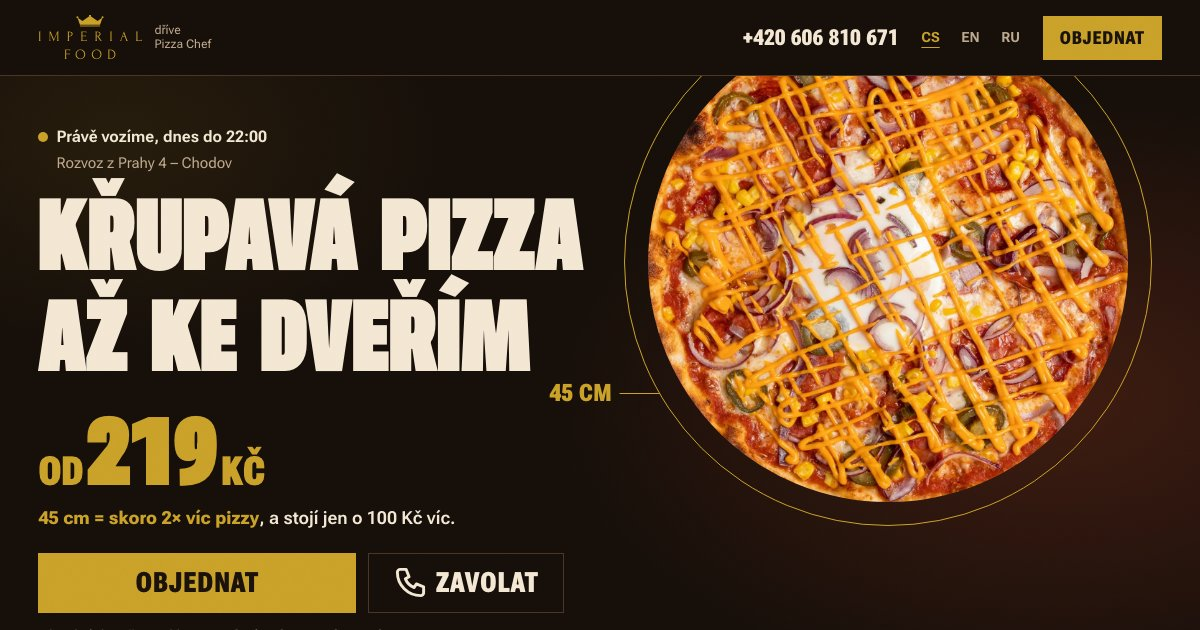
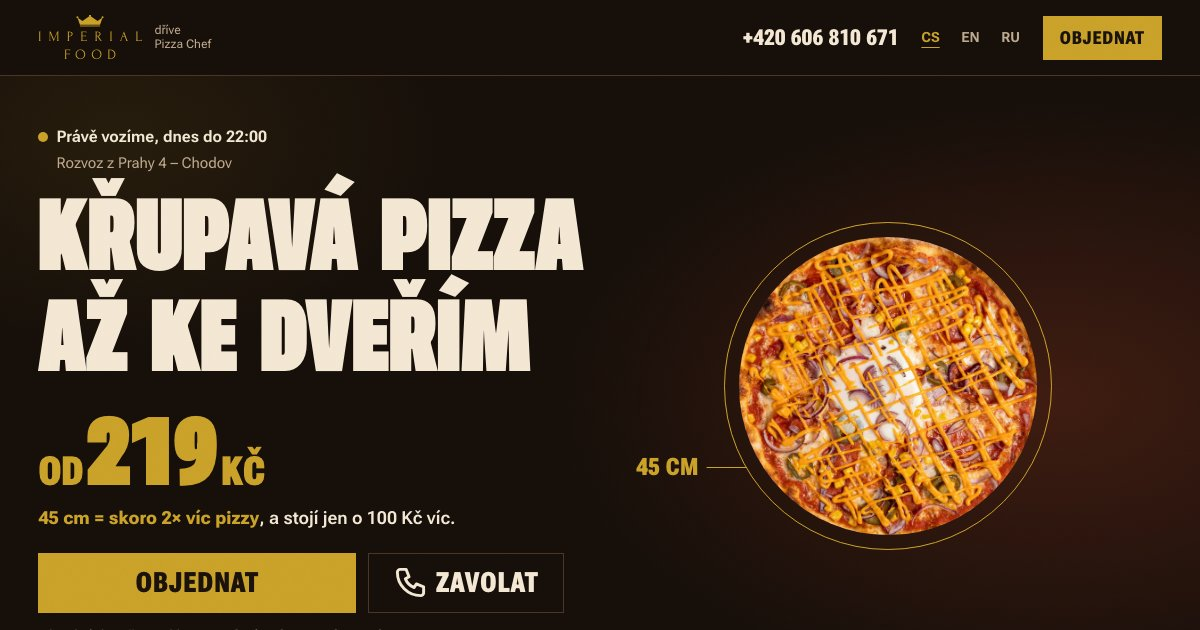
header fixes

Changed region(s): [[0.5242, 0.1206, 0.9558, 0.8746], [0.5242, 0.7238, 0.5858, 0.754], [0.4625, 0.6032, 0.5242, 0.6333]]

diff --git a/index.html b/index.html
@@ -4,7 +4,7 @@
 <meta charset="utf-8">
 <meta name="viewport" content="width=device-width, initial-scale=1">
 <title>Imperial Pizza — křupavá pizza s rozvozem po Praze 4, od 219 Kč</title>
-<meta name="description" content="17 pizz ve velikosti 32 a 45 cm. Rozvoz z Chodova, objednávka přes Wolt. Pá a So do půlnoci.">
+<meta name="description" content="17 pizz ve velikosti 32 a 45 cm. Rozvoz z Chodova, objednávka přes aplikace. Pá a So do půlnoci.">
 <link rel="preconnect" href="https://fonts.googleapis.com">
 <link rel="preconnect" href="https://fonts.gstatic.com" crossorigin>
 <link rel="stylesheet" href="https://fonts.googleapis.com/css2?family=Forum&display=swap">
@@ -19,7 +19,6 @@
   --color-line: #4A3526;
   --color-gold: #C9A029;
   --color-gold-hi: #DDB93F;
-  --color-gold-sel: #A8872A; /* selected filter (tabs, 32/45): a little darker than action buttons so Objednat stands out */
   --color-cream: #F3E7D3;
   --color-muted: #BCA88C;
   --color-tomato: #E0502F;
@@ -105,10 +104,10 @@ a { text-decoration-thickness: 1px; text-underline-offset: .2em; }
 /* segmented 32 / 45 */
 .seg { display: inline-flex; border: 1px solid var(--color-gold); }
 .seg button {
-  white-space: nowrap; min-height: 2.75rem; min-width: 3.25rem; padding: 0 var(--space-3); border: 0; background: none; color: var(--color-gold); cursor: pointer;
+  white-space: nowrap; min-height: 2.75rem; min-width: 3.25rem; padding: 0 var(--space-3); border: 0; background: none; color: var(--color-cream); cursor: pointer;
   font-family: var(--font-display); font-stretch: var(--stretch-condensed); font-weight: 800; font-size: 1.25rem; text-transform: uppercase; line-height: 1;
 }
-.seg button[aria-pressed="true"] { background: var(--color-gold-sel); color: var(--color-on-gold); }
+.seg button[aria-pressed="true"] { background: var(--color-gold); color: var(--color-on-gold); box-shadow: 0 0 0 2px var(--color-ink) inset; }
 .seg--lg button { min-height: 3.25rem; min-width: 5.5rem; font-size: 1.625rem; }
 
 /* ---------- header ---------- */
@@ -194,7 +193,7 @@ a { text-decoration-thickness: 1px; text-underline-offset: .2em; }
   .hero__cta { max-width: 32rem; }
   .hero__cta .btn--gold { flex: none; padding: 0 var(--space-8); }
   .hero__tel { width: auto; padding: 0 var(--space-5); }
-  .hero__pz { position: relative; right: auto; top: auto; width: min(36rem, 40vw); justify-self: center; }
+  .hero__pz { position: relative; right: auto; top: auto; bottom: auto; width: min(36rem, 40vw, calc(100svh - var(--header-h) - 16rem)); justify-self: center; }
   .ring__tag { font-size: 1.5rem; }
   .hero__pz .ring__tag { display: flex; }
 }
@@ -214,9 +213,9 @@ a { text-decoration-thickness: 1px; text-underline-offset: .2em; }
 .menu__head { display: flex; flex-wrap: wrap; align-items: end; justify-content: space-between; gap: var(--space-4); padding-top: var(--space-6); margin-bottom: var(--space-5); }
 .mtabs[hidden], .sizebar__in[hidden] { display: none; }
 .mtabs { display: flex; gap: var(--space-2); padding-block: var(--space-2); }
-.mtabs button { flex: 1; min-height: 2.75rem; padding: 0 var(--space-3); border: 1px solid var(--color-line); border-radius: var(--radius); background: none; color: var(--color-cream); cursor: pointer;
+.mtabs button { flex: 1; min-height: 2.75rem; padding: 0 var(--space-3); border: 1px solid var(--color-gold); border-radius: var(--radius); background: none; color: var(--color-cream); cursor: pointer;
   font-family: var(--font-display); font-stretch: var(--stretch-condensed); font-weight: 800; font-size: 1.25rem; text-transform: uppercase; line-height: 1; }
-.mtabs button[aria-pressed="true"] { background: var(--color-gold-sel); border-color: var(--color-gold-sel); color: var(--color-on-gold); }
+.mtabs button[aria-pressed="true"] { background: var(--color-gold); color: var(--color-on-gold); box-shadow: 0 0 0 2px var(--color-ink) inset; }
 .price--app { font-size: var(--text-fine); color: var(--color-muted); font-weight: 650; white-space: nowrap; }
 .menu__head p { color: var(--color-muted); font-size: var(--text-fine); max-width: 20rem; }
 .menu__sub { margin: var(--space-7) 0 var(--space-4); }
@@ -278,6 +277,19 @@ a { text-decoration-thickness: 1px; text-underline-offset: .2em; }
 .card--row .card__act .btn { flex: 1 0 auto; padding: 0 var(--space-3); }
 .card--row .seg button { min-width: 2.6rem; padding: 0 .35rem; font-size: 1.0625rem; }
 @media (min-width: 40rem) { .card--row { grid-template-columns: 11rem minmax(0, 1fr); gap: var(--space-5); } .card--row h3 { font-size: 2rem; } .card--row .card__act .btn { flex: none; padding: 0 var(--space-4); } .card--row .seg button { min-width: 3rem; } }
+.goods { display: grid; grid-template-columns: repeat(2, minmax(0, 1fr)); gap: var(--space-3); }
+@media (min-width: 40rem) { .goods { grid-template-columns: repeat(3, minmax(0, 1fr)); } }
+@media (min-width: 56rem) { .goods { grid-template-columns: repeat(4, minmax(0, 1fr)); } }
+@media (min-width: 80rem) { .goods { grid-template-columns: repeat(5, minmax(0, 1fr)); gap: var(--space-4); } }
+.good { display: flex; flex-direction: column; border: 1px solid var(--color-line); background: var(--color-ink); }
+.good__ph { aspect-ratio: 1; background: var(--color-panel); overflow: hidden; }
+.good__ph img { width: 100%; height: 100%; object-fit: cover; display: block; }
+.good--pack .good__ph { background: var(--color-cream); }
+.good--pack .good__ph img { mix-blend-mode: multiply; }
+.good__body { padding: var(--space-3); display: flex; flex-direction: column; gap: .3rem; }
+.good__body h3 { font-size: 1.375rem; line-height: 1.05; }
+.good--bare .good__body { padding-block: var(--space-4); }
+.goods__cta { display: flex; width: 100%; margin-top: var(--space-4); }
 .menu__foot { padding: var(--space-5) 0 var(--space-8); color: var(--color-muted); font-size: var(--text-fine); }
 .no-prices [data-price] { display: none !important; }
 
@@ -330,6 +342,7 @@ a { text-decoration-thickness: 1px; text-underline-offset: .2em; }
 .fact + .fact { border-top: 1px solid color-mix(in srgb, var(--color-on-gold) 22%, transparent); }
 .fact p { margin-top: var(--space-4); max-width: 28rem; font-size: var(--text-body-lg); font-weight: 600; color: var(--color-on-gold); }
 .fact .bigword { font-size: clamp(2.4rem, 12.4vw, 4.5rem); line-height: 1.12; } /* mobile: two lines, "DO / PŮLNOCI" */
+@media (max-width: 55.99rem) { html[lang="ru"] .fact .bigword { font-size: clamp(1.75rem, 8.4vw, 4.5rem); } } /* long ru words ("В ПРИЛОЖЕНИИ") must fit */
 @media (min-width: 56rem) { .fact { min-height: clamp(20rem, 60vh, 38rem); } .fact .bigword { font-size: clamp(2.4rem, 8.6vw, 8.5rem); } .fact--end { justify-items: end; text-align: right; } }
 
 /* ---------- how ---------- */
@@ -407,7 +420,8 @@ a { text-decoration-thickness: 1px; text-underline-offset: .2em; }
 .apps { display: grid; gap: var(--space-2); list-style: none; padding: 0; }
 .app { display: flex; align-items: center; justify-content: space-between; gap: var(--space-3); min-height: 4.5rem; padding: 0 var(--space-5); background: var(--color-gold); color: var(--color-on-gold); text-decoration: none; }
 .app:hover { background: var(--color-gold-hi); }
-.app--nolink, .app--nolink:hover { background: transparent; color: var(--color-muted); border: 1px solid var(--color-line); cursor: default; }
+.chooser__also { color: var(--color-cream); font-size: var(--text-fine); }
+.chooser__also[hidden] { display: none; }
 .app__name { font-family: var(--font-display); font-stretch: var(--stretch-wide); font-weight: 1000; font-size: 1.75rem; text-transform: uppercase; }
 .app__go { font-weight: 700; font-size: .9375rem; }
 .chooser__fine { font-size: var(--text-fine); color: var(--color-muted); }
@@ -421,7 +435,7 @@ a { text-decoration-thickness: 1px; text-underline-offset: .2em; }
 </style>
   <meta name="robots" content="noindex">
   <meta property="og:title" content="Imperial Pizza — křupavá pizza s rozvozem po Praze 4, od 219 Kč">
-  <meta property="og:description" content="17 pizz ve velikosti 32 a 45 cm. Rozvoz z Chodova, objednávka přes Wolt. Pá a So do půlnoci.">
+  <meta property="og:description" content="17 pizz ve velikosti 32 a 45 cm. Rozvoz z Chodova, objednávka přes aplikace. Pá a So do půlnoci.">
   <meta property="og:image" content="og.jpg">
   <meta name="twitter:card" content="summary_large_image">
 </head>
@@ -506,7 +520,7 @@ a { text-decoration-thickness: 1px; text-underline-offset: .2em; }
     <div class="k-container" data-panel="pizza">
       <div class="menu__head">
         <h2 class="t-h2" data-i18n="menu_h">Nejoblíbenější</h2>
-        <p data-i18n="menu_p">Čtyři pizzy, které se ve Woltu objednávají nejvíc.</p>
+        <p data-i18n="menu_p">Čtyři pizzy, které lidé objednávají nejčastěji.</p>
       </div>
       <div class="pop" data-pop></div>
       <h2 class="t-h2 menu__sub" data-i18n="menu_all">Všechny pizzy</h2>
@@ -515,7 +529,8 @@ a { text-decoration-thickness: 1px; text-underline-offset: .2em; }
     </div>
     <div class="k-container" data-panel="other" hidden>
       <div class="menu__head"><h2 class="t-h2" data-other-h></h2></div>
-      <div class="rows" data-other-rows></div>
+      <div class="goods" data-other-rows></div>
+      <button class="btn btn--gold btn--xl goods__cta" type="button" data-order data-i18n="order_app">Objednat v aplikaci</button>
       <p class="menu__foot" data-i18n="menu_foot_other">Ceny najdete v aplikaci.</p>
     </div>
   </section>
@@ -566,7 +581,7 @@ a { text-decoration-thickness: 1px; text-underline-offset: .2em; }
       </div>
       <div class="k-container fact fact--end">
         <h2 class="bigword" data-i18n="app_w">V aplikaci</h2>
-        <p data-i18n="app_p">Objednáte ve Woltu, foodoře nebo Boltu, kde už máte adresu i platbu. Cenu dopravy a čas doručení vidíte předem.</p>
+        <p data-i18n="app_p">Objednáte v aplikaci (<span data-app-names></span>), kde už máte adresu i platbu. Cenu dopravy a čas doručení vidíte předem.</p>
       </div>
     </div>
   </section>
@@ -578,7 +593,7 @@ a { text-decoration-thickness: 1px; text-underline-offset: .2em; }
       <div class="how__grid">
         <ol class="steps">
           <li><span class="steps__n">1</span><div><h3 class="t-h3" data-i18n="s1_h">Vyberte pizzu a velikost</h3><p data-i18n="s1_p">32 cm pro jednoho, 45 cm, když jste dva a víc.</p></div></li>
-          <li><span class="steps__n">2</span><div><h3 class="t-h3" data-i18n="s2_h">Klikněte na Objednat</h3><p data-i18n="s2_p">Otevře se naše stránka ve Woltu. Tam vyberete, zaplatíte a zadáte adresu.</p></div></li>
+          <li><span class="steps__n">2</span><div><h3 class="t-h3" data-i18n="s2_h">Klikněte na Objednat</h3><p data-i18n="s2_p">Otevře se naše stránka v aplikaci. Tam vyberete, zaplatíte a zadáte adresu.</p></div></li>
           <li><span class="steps__n">3</span><div><h3 class="t-h3" data-i18n="s3_h">Pizza jede k vám</h3><p data-i18n="s3_p">Kurýr ji přiveze až ke dveřím. Čas doručení ukazuje aplikace.</p></div></li>
         </ol>
         <div class="how__photo"><img src="media/box-home-1.webp" alt="Otevřená krabice s pizzou na konferenčním stolku" loading="lazy" data-i18n-alt="box_alt"></div>
@@ -602,7 +617,7 @@ a { text-decoration-thickness: 1px; text-underline-offset: .2em; }
         <div class="where">
           <p class="muted" data-i18n="kitchen_lbl">Kuchyně, odkud pizza vyjíždí</p>
           <p class="addr">Krejnická 2021/1<br>Praha 4 – Chodov</p>
-          <p class="muted" data-i18n="zone_p">Jsme jen rozvoz, bez výdejního okénka. Kam až vozíme, kolik stojí doprava a jaká je minimální objednávka, vám ukáže aplikace po zadání adresy.</p>
+          <p class="muted" data-i18n="zone_p">Kam až vozíme, kolik stojí doprava a jaká je minimální objednávka, vám ukáže aplikace po zadání adresy.</p>
           <p><span class="muted" data-i18n="ask">Otázka nebo velká objednávka?</span><br><a class="tel" href="tel:+420606810671">+420 606 810 671</a></p>
         </div>
       </div>
@@ -614,7 +629,7 @@ a { text-decoration-thickness: 1px; text-underline-offset: .2em; }
     <div class="k-container">
       <h2 class="t-h2" data-i18n="faq_h">Časté otázky</h2>
       <div class="faq__list">
-        <details><summary data-i18n="q1">Kde můžu objednat?</summary><p data-i18n="a1">Ve Woltu. Tlačítko Objednat vás přenese rovnou na naši stránku. Přímo na webu objednávky nepřijímáme.</p></details>
+        <details><summary data-i18n="q1">Kde můžu objednat?</summary><p data-i18n="a1">V některé z aplikací: <span data-app-names></span>. Tlačítko Objednat vás přenese rovnou na naši stránku. Přímo na webu objednávky nepřijímáme.</p></details>
         <details><summary data-i18n="q2">Proč je cena v aplikaci jiná?</summary><p data-i18n="a2">Tady jsou naše běžné ceny. Aplikace mívají vlastní akce a poplatky, proto se cena může lišit. Platí ta, kterou vidíte v aplikaci.</p></details>
         <details><summary data-i18n="q3">Kam vozíte a kolik stojí doprava?</summary><p data-i18n="a3">Vaříme v Praze 4 na Chodově. Zónu, cenu dopravy a minimální objednávku vám po zadání adresy ukáže aplikace.</p></details>
         <details><summary data-i18n="q4">Kde najdu alergeny?</summary><p data-i18n="a4">U každé pizzy v aplikaci. Když si nejste jistí, zavolejte nám na <a href="tel:+420606810671">+420 606 810 671</a>.</p></details>
@@ -631,7 +646,7 @@ a { text-decoration-thickness: 1px; text-underline-offset: .2em; }
         <a class="wm" href="#top" aria-label="Imperial Food"><svg class="wm__svg" viewBox="0 0 124 54" aria-hidden="true"><use href="#wm-lock"/></svg></a>
         <p style="margin-top: var(--space-3)" data-i18n="ftr_was">Dříve Pizza Chef. Stejná kuchyně, nové jméno.</p>
       </div>
-      <div><h3 data-i18n="ftr_k">Kuchyně</h3><p>Krejnická 2021/1<br>148 00 Praha 4 – Chodov</p><p data-i18n="ftr_only">Jen rozvoz</p></div>
+      <div><h3 data-i18n="ftr_k">Kuchyně</h3><p>Krejnická 2021/1<br>148 00 Praha 4 – Chodov</p></div>
       <div><h3 data-i18n="ftr_h">Rozvoz</h3><p data-i18n="ftr_hours">Po–Čt a Ne 10:00–22:00<br>Pá–So 10:00–24:00</p></div>
       <div><h3 data-i18n="ftr_c">Kontakt</h3><p><a href="tel:+420606810671">+420 606 810 671</a></p><p><span data-i18n="apps_via">Objednávka přes aplikaci:</span> <span data-app-names>Wolt, foodora, Bolt Food</span></p></div>
     </div>
@@ -673,6 +688,7 @@ a { text-decoration-thickness: 1px; text-underline-offset: .2em; }
     </div>
     <p class="chooser__ctx" data-ctx hidden></p>
     <ul class="apps" data-apps></ul>
+    <p class="chooser__also" data-apps-also hidden></p>
     <p class="chooser__fine" data-i18n="ch_fine">Otevře se stránka Imperial Pizza v aplikaci. Pizzu i velikost vyberete tam, ceny se mohou lišit.</p>
     <p class="chooser__fine"><span data-i18n="ch_call">Raději telefonem?</span> <a href="tel:+420606810671">+420 606 810 671</a></p>
   </div>
@@ -698,7 +714,7 @@ a { text-decoration-thickness: 1px; text-underline-offset: .2em; }
       hook: "<b>45 cm = almost twice the pizza</b>, for just 100&nbsp;Kč more.",
       apps_via: "Order in the app:",
       size_lbl: "Size", size_hint: "<span class=\"hide-sm\">Switches the whole menu.<br></span><b>45 cm = 1.98× the area</b>", price_note: "Prices in the apps may differ.",
-      menu_h: "Most popular", menu_p: "The four pizzas people order most on Wolt.", menu_all: "All pizzas",
+      menu_h: "Most popular", menu_p: "The four pizzas people order most.", menu_all: "All pizzas",
       menu_foot: "Prices in the apps may differ. Photos show real pizzas from our menu.",
       size_word: "Nearly 2×", size_lead: "A 45 cm pizza has 1.98× the area of a 32 cm one. On every pizza in the menu it costs 100 Kč more. Flip the switch to see the difference at true scale.",
       pick_lbl: "Pizza", r_price: "Price 32 → 45 cm", r_area: "Area", r_per: "Per 100 cm²",
@@ -706,21 +722,21 @@ a { text-decoration-thickness: 1px; text-underline-offset: .2em; }
       order_this: "Order this one",
       crisp_w: "Crispy", crisp_p: "Pizza to lift your spirits. That's how we describe it, and that's how we bake it.", crisp_alt: "Close-up of a baked pizza rim",
       late_w: "Till midnight", late_p: "On Friday and Saturday we deliver until 24:00. Other days from 10:00 to 22:00.",
-      app_w: "In the app", app_p: "Order on Wolt, foodora or Bolt Food, wherever your address and payment are already saved. You see the delivery fee and time before you pay.",
+      app_w: "In the app", app_p: "Order in the app (<span data-app-names></span>), wherever your address and payment are already saved. You see the delivery fee and time before you pay.",
       how_h: "How to order", s1_h: "Pick a pizza and size", s1_p: "32 cm for one, 45 cm when there are two or more of you.",
-      s2_h: "Tap Order", s2_p: "Our page on Wolt opens. Choose, pay and enter your address there.", s3_h: "Pizza is on its way", s3_p: "A courier brings it to your door. The app shows the delivery time.",
+      s2_h: "Tap Order", s2_p: "Our page in the app opens. Choose, pay and enter your address there.", s3_h: "Pizza is on its way", s3_p: "A courier brings it to your door. The app shows the delivery time.",
       box_alt: "Open pizza box on a coffee table",
       hours_h: "When and where from", hours_cap: "Delivery hours", d_mt: "Monday to Thursday", d_fs: "Friday and Saturday", d_su: "Sunday",
-      kitchen_lbl: "The kitchen your pizza leaves from", zone_p: "Delivery only, no pick-up counter. How far we deliver, the delivery fee and the minimum order are shown in the app once you enter your address.",
+      kitchen_lbl: "The kitchen your pizza leaves from", zone_p: "How far we deliver, the delivery fee and the minimum order are shown in the app once you enter your address.",
       ask: "A question or a large order?",
       faq_h: "Questions",
-      q1: "Where can I order?", a1: "On Wolt. The Order button takes you straight to our page. We don't take orders on this website.",
+      q1: "Where can I order?", a1: "In one of the apps: <span data-app-names></span>. The Order button takes you straight to our page. We don't take orders on this website.",
       q2: "Why is the price in the app different?", a2: "These are our regular prices. Apps run their own deals and fees, so the price can differ. The price in the app is the one that counts.",
       q3: "Where do you deliver and what does it cost?", a3: "We cook in Prague 4, Chodov. The app shows the zone, delivery fee and minimum order once you enter your address.",
       q4: "Where can I find allergens?", a4: 'With each pizza in the app. If you\'re not sure, call us on <a href="tel:+420606810671">+420 606 810 671</a>.',
       q5: "Ordering for an office or a party?", a5: 'Call us in advance on <a href="tel:+420606810671">+420 606 810 671</a> and we\'ll sort it out.',
-      ftr_was: "Formerly Pizza Chef. Same kitchen, new name.", ftr_k: "Kitchen", ftr_only: "Delivery only", ftr_h: "Delivery", ftr_hours: "Mon–Thu and Sun 10:00–22:00<br>Fri–Sat 10:00–24:00", ftr_c: "Contact", ftr_fine: "Prices in the apps may differ.",
-      menu_foot_other: "Prices are shown in the app.", ch_h: "Where do you order?", ch_fine: "Imperial Pizza's page opens in the app. Choose the pizza and size there; prices may differ.", ch_call: "Prefer the phone?",
+      ftr_was: "Formerly Pizza Chef. Same kitchen, new name.", ftr_k: "Kitchen", ftr_h: "Delivery", ftr_hours: "Mon–Thu and Sun 10:00–22:00<br>Fri–Sat 10:00–24:00", ftr_c: "Contact", ftr_fine: "Prices in the apps may differ.",
+      menu_foot_other: "Prices are shown in the app.", order_app: "Order in the app", ch_h: "Where do you order?", ch_fine: "Imperial Pizza's page opens in the app. Choose the pizza and size there; prices may differ.", ch_call: "Prefer the phone?",
     },
     ru: {
       skip: "Перейти к меню", was: "раньше<br>Pizza Chef", nav_menu: "Меню", nav_size: "32 или 45", nav_how: "Как заказать", nav_hours: "Часы", nav_faq: "Вопросы",
@@ -729,7 +745,7 @@ a { text-decoration-thickness: 1px; text-underline-offset: .2em; }
       hook: "<b>45 см — почти вдвое больше пиццы</b>, а дороже всего на 100&nbsp;Kč.",
       apps_via: "Заказ через приложение:",
       size_lbl: "Размер", size_hint: "<span class=\"hide-sm\">Переключает всё меню.<br></span><b>45 см = 1,98× площади</b>", price_note: "Цены в приложениях могут отличаться.",
-      menu_h: "Самые популярные", menu_p: "Четыре пиццы, которые чаще всего заказывают в Wolt.", menu_all: "Все пиццы",
+      menu_h: "Самые популярные", menu_p: "Четыре пиццы, которые заказывают чаще всего.", menu_all: "Все пиццы",
       menu_foot: "Цены в приложениях могут отличаться. На фото настоящие пиццы из нашего меню.",
       size_word: "Почти 2×", size_lead: "У пиццы 45 см площадь в 1,98 раза больше, чем у 32 см. В меню она всегда дороже ровно на 100 Kč. Переключите и посмотрите разницу в реальном масштабе.",
       pick_lbl: "Пицца", r_price: "Цена 32 → 45 см", r_area: "Площадь", r_per: "За 100 см²",
@@ -737,21 +753,21 @@ a { text-decoration-thickness: 1px; text-underline-offset: .2em; }
       order_this: "Заказать эту",
       crisp_w: "Хрустящая", crisp_p: "Пицца, которая поднимает настроение. Так мы её описываем и так печём.", crisp_alt: "Крупный план запечённого края пиццы",
       late_w: "До полуночи", late_p: "В пятницу и субботу возим до 24:00. В остальные дни с 10:00 до 22:00.",
-      app_w: "В приложении", app_p: "Заказывайте в Wolt, foodora или Bolt Food, где уже есть ваш адрес и оплата. Стоимость и время доставки видны заранее.",
+      app_w: "В приложении", app_p: "Заказывайте в приложении (<span data-app-names></span>), где уже есть ваш адрес и оплата. Стоимость и время доставки видны заранее.",
       how_h: "Как заказать", s1_h: "Выберите пиццу и размер", s1_p: "32 см на одного, 45 см, если вас двое и больше.",
-      s2_h: "Нажмите «Заказать»", s2_p: "Откроется наша страница в Wolt. Там выберете, оплатите и укажете адрес.", s3_h: "Пицца едет к вам", s3_p: "Курьер привезёт её прямо к двери. Время доставки показывает приложение.",
+      s2_h: "Нажмите «Заказать»", s2_p: "Откроется наша страница в приложении. Там выберете, оплатите и укажете адрес.", s3_h: "Пицца едет к вам", s3_p: "Курьер привезёт её прямо к двери. Время доставки показывает приложение.",
       box_alt: "Открытая коробка с пиццей на журнальном столике",
       hours_h: "Когда и откуда возим", hours_cap: "Часы доставки", d_mt: "Понедельник — четверг", d_fs: "Пятница и суббота", d_su: "Воскресенье",
-      kitchen_lbl: "Кухня, откуда выезжает пицца", zone_p: "Только доставка, без самовывоза. Куда возим, сколько стоит доставка и какой минимальный заказ, покажет приложение по вашему адресу.",
+      kitchen_lbl: "Кухня, откуда выезжает пицца", zone_p: "Куда возим, сколько стоит доставка и какой минимальный заказ, покажет приложение по вашему адресу.",
       ask: "Вопрос или большой заказ?",
       faq_h: "Вопросы",
-      q1: "Где заказать?", a1: "В Wolt. Кнопка «Заказать» ведёт прямо на нашу страницу. На сайте заказы не принимаем.",
+      q1: "Где заказать?", a1: "В одном из приложений: <span data-app-names></span>. Кнопка «Заказать» ведёт прямо на нашу страницу. На сайте заказы не принимаем.",
       q2: "Почему в приложении другая цена?", a2: "Здесь наши обычные цены. У приложений свои акции и сборы, поэтому цена может отличаться. Действует цена в приложении.",
       q3: "Куда возите и сколько стоит доставка?", a3: "Готовим в Праге 4, на Ходове. Зону, стоимость доставки и минимальный заказ приложение покажет по вашему адресу.",
       q4: "Где посмотреть аллергены?", a4: 'У каждой пиццы в приложении. Если сомневаетесь, позвоните: <a href="tel:+420606810671">+420 606 810 671</a>.',
       q5: "Заказ для офиса или праздника?", a5: 'Позвоните заранее: <a href="tel:+420606810671">+420 606 810 671</a>, договоримся.',
-      ftr_was: "Раньше Pizza Chef. Та же кухня, новое имя.", ftr_k: "Кухня", ftr_only: "Только доставка", ftr_h: "Доставка", ftr_hours: "Пн–Чт и Вс 10:00–22:00<br>Пт–Сб 10:00–24:00", ftr_c: "Контакты", ftr_fine: "Цены в приложениях могут отличаться.",
-      menu_foot_other: "Цены смотрите в приложении.", ch_h: "Где заказать?", ch_fine: "Откроется страница Imperial Pizza в приложении. Пиццу и размер выберете там, цены могут отличаться.", ch_call: "Удобнее по телефону?",
+      ftr_was: "Раньше Pizza Chef. Та же кухня, новое имя.", ftr_k: "Кухня", ftr_h: "Доставка", ftr_hours: "Пн–Чт и Вс 10:00–22:00<br>Пт–Сб 10:00–24:00", ftr_c: "Контакты", ftr_fine: "Цены в приложениях могут отличаться.",
+      menu_foot_other: "Цены смотрите в приложении.", order_app: "Заказать в приложении", ch_h: "Где заказать?", ch_fine: "Откроется страница Imperial Pizza в приложении. Пиццу и размер выберете там, цены могут отличаться.", ch_call: "Удобнее по телефону?",
     },
   };
   const T = { // strings built in JS
@@ -784,7 +800,7 @@ a { text-decoration-thickness: 1px; text-underline-offset: .2em; }
     $(".lang-sel").value = l;
     $$("[data-set-size]").forEach((b) => (b.textContent = b.dataset.setSize + (l === "ru" ? " см" : " cm")));
     $$(".week th").forEach((th) => th.dataset.today = T[l].today);
-    renderMenu(); renderPick(); status(); prices();
+    renderMenu(); renderPick(); status(); prices(); renderAlso();
   }
 
   /* ---------- prices / apps ---------- */
@@ -829,12 +845,11 @@ a { text-decoration-thickness: 1px; text-underline-offset: .2em; }
   }
   const itemName = (p) => (lang === "cs" ? p.name : p[lang] || p.name);
   function itemCard(p) {
-    return `<article class="card card--row" data-id="${p.id}">
-      <div class="card__photo"><div class="pz"><span class="pz__ghost"></span><div class="disc"><img src="${p.photo}" alt="${itemName(p)}" loading="lazy" width="1200" height="675"></div></div></div>
-      <div class="card__body">
-        <div class="card__head"><h3 class="t-h3">${itemName(p)}</h3>${p.price == null ? `<span class="price--app">${T[lang].inapp}</span>` : `<span class="price"><span class="price__num">${p.price}</span><span class="price__cur">Kč</span></span>`}</div>
-        <div class="card__act"><button class="btn btn--gold btn--sm" type="button" data-order="${p.id}">${T[lang].order}</button></div>
-      </div></article>`;
+    const name = itemName(p);
+    const pr = p.price == null ? `<span class="price--app">${T[lang].inapp}</span>` : `<span class="price"><span class="price__num">${p.price}</span><span class="price__cur">Kč</span></span>`;
+    return `<article class="good${p.photo ? "" : " good--bare"} good--pack" data-id="${p.id}">
+      ${p.photo ? `<div class="good__ph"><img src="${p.photo}" alt="${name}" loading="lazy" width="1200" height="675"></div>` : ""}
+      <div class="good__body"><h3 class="t-h3">${name.replace(/Coca-Cola/g, '<span style="white-space:nowrap">Coca-Cola</span>')}</h3>${pr}</div></article>`;
   }
   const CATS = ["pizza", "sides", "drinks"].filter((c) => (c === "pizza" ? M.pizzas : M[c] || []).length);
   let tab = CATS[0];
@@ -848,8 +863,7 @@ a { text-decoration-thickness: 1px; text-underline-offset: .2em; }
     if (tab !== "pizza") {
       $("[data-other-h]").textContent = T[lang].tab[tab];
       $("[data-other-rows]").innerHTML = M[tab].map(itemCard).join("");
-      $$("[data-other-rows] .card").forEach((c) => c.classList.add("is-in"));
-    }
+          }
   }
   let io;
   function renderMenu() {
@@ -922,7 +936,21 @@ a { text-decoration-thickness: 1px; text-underline-offset: .2em; }
   const dlg = $("#order");
   $("[data-apps]").innerHTML = M.apps.map((a) => a.url
     ? `<li><a class="app" href="${a.url}" target="_blank" rel="noopener"><span class="app__name">${a.name}</span><span class="app__go">${lang === "cs" ? "otevřít" : lang === "ru" ? "открыть" : "open"}</span></a></li>`
-    : `<li><span class="app app--nolink" aria-disabled="true"><span class="app__name">${a.name}</span></span></li>`).join(""); // no url yet (TODO owner): shown, not clickable
+    : "").join(""); // apps without url (TODO owner) are named in the text line below, not shown as buttons
+  const ALSO = {
+    cs: { f: (l) => `Najdete nás i ${l}.`, prep: { wolt: ["ve", "Woltu"], foodora: ["ve", "foodoře"], bolt: ["v", "Bolt Food"] }, and: " a " },
+    en: { f: (l) => `We're also on ${l}.`, and: " and " },
+    ru: { f: (l) => `Мы есть и в ${l}.`, and: " и " },
+  };
+  function renderAlso() {
+    const el = $("[data-apps-also]");
+    const miss = M.apps.filter((a) => !a.url);
+    el.hidden = !miss.length;
+    if (!miss.length) return;
+    const A = ALSO[lang];
+    const names = lang === "cs" ? miss.map((a, i) => { const f = A.prep[a.id] || ["v", a.name]; return i ? f[1] : f.join(" "); }) : miss.map((a) => a.name);
+    el.textContent = A.f(names.join(A.and));
+  }
   function openOrder(id) {
     const ctx = $("[data-ctx]");
     if (id) {

diff --git a/menu.data.js b/menu.data.js
@@ -11,8 +11,8 @@ window.MENU = {
   priceNote: true, // shows "Ceny se mohou v aplikacích lišit."
   apps: [
     { id: "wolt", name: "Wolt", url: "https://wolt.com/en/cze/prague/restaurant/imperial-pizza-1", confirmed: true },
-    { id: "foodora", name: "foodora", url: "", confirmed: false }, // TODO owner: listed? link (button shown but not clickable until url is set)
-    { id: "bolt", name: "Bolt Food", url: "", confirmed: false },  // TODO owner: listed? link (button shown but not clickable until url is set)
+    { id: "foodora", name: "foodora", url: "", confirmed: false }, // TODO owner: listed? link (set url → gold button; until then listed in the popup text line)
+    { id: "bolt", name: "Bolt Food", url: "", confirmed: false },  // TODO owner: listed? link (set url → gold button; until then listed in the popup text line)
   ],
   phone: "+420 606 810 671",
   hours: { // 0 = Sunday … 6 = Saturday; close 24 = midnight
@@ -53,13 +53,13 @@ window.MENU = {
   ],
   drinks: [
     { id: "coca-cola-0-5", name: "Coca-Cola 0,5 l", en: "Coca-Cola 0.5 l", ru: "Coca-Cola 0,5 л", price: null, photo: "media/coca-cola-0-5-l.jpeg" },
-    { id: "coca-cola-zero-0-5", name: "Coca-Cola Zero 0,5 l", en: "Coca-Cola Zero 0.5 l", ru: "Coca-Cola Zero 0,5 л", price: null, photo: "media/coca-cola-0-5-l.jpeg" },
-    { id: "fanta-0-5", name: "Fanta - pomeranč 0,5 l", en: "Fanta - orange 0.5 l", ru: "Fanta - апельсин 0,5 л", price: null, photo: "media/fanta-pomeranc-0-5-l.jpeg" },
+    { id: "coca-cola-zero-0-5", name: "Coca-Cola Zero 0,5 l", en: "Coca-Cola Zero 0.5 l", ru: "Coca-Cola Zero 0,5 л", price: null, photo: null }, // no photo: Wolt shot is regular Coke (TODO-OWNER),
+    { id: "fanta-0-5", name: "Fanta pomeranč 0,5 l", en: "Fanta orange 0.5 l", ru: "Fanta апельсин 0,5 л", price: null, photo: "media/fanta-pomeranc-0-5-l.jpeg" },
     { id: "sprite-0-5", name: "Sprite 0,5 l", en: "Sprite 0.5 l", ru: "Sprite 0,5 л", price: null, photo: "media/sprite-0-5-l.jpeg" },
     { id: "coca-cola-1-5", name: "Coca-Cola 1,5 l", en: "Coca-Cola 1.5 l", ru: "Coca-Cola 1,5 л", price: null, photo: "media/coca-cola-1-5-l.jpeg" },
-    { id: "fanta-1-5", name: "Fanta - pomeranč 1,5 l", en: "Fanta - orange 1.5 l", ru: "Fanta - апельсин 1,5 л", price: null, photo: "media/fanta-pomeranc-1-5-l.jpeg" },
+    { id: "fanta-1-5", name: "Fanta pomeranč 1,5 l", en: "Fanta orange 1.5 l", ru: "Fanta апельсин 1,5 л", price: null, photo: "media/fanta-pomeranc-1-5-l.jpeg" },
     { id: "sprite-1-5", name: "Sprite 1,5 l", en: "Sprite 1.5 l", ru: "Sprite 1,5 л", price: null, photo: "media/sprite-1-5-l.jpeg" },
-    { id: "ice-tea-citron", name: "Ice Tea Lipton - citron 0,5 l", en: "Ice Tea Lipton - lemon 0.5 l", ru: "Ice Tea Lipton - лимон 0,5 л", price: null, photo: "media/ice-tea-lipton-citron-0-5-l.jpeg" },
-    { id: "ice-tea-broskev", name: "Ice Tea Lipton - broskev 0,5 l", en: "Ice Tea Lipton - peach 0.5 l", ru: "Ice Tea Lipton - персик 0,5 л", price: null, photo: "media/ice-tea-lipton-broskev-0-5-l.jpeg" },
+    { id: "ice-tea-citron", name: "Ice Tea Lipton citron 0,5 l", en: "Ice Tea Lipton lemon 0.5 l", ru: "Ice Tea Lipton лимон 0,5 л", price: null, photo: "media/ice-tea-lipton-citron-0-5-l.jpeg" },
+    { id: "ice-tea-broskev", name: "Ice Tea Lipton broskev 0,5 l", en: "Ice Tea Lipton peach 0.5 l", ru: "Ice Tea Lipton персик 0,5 л", price: null, photo: "media/ice-tea-lipton-broskev-0-5-l.jpeg" },
   ],
 };
